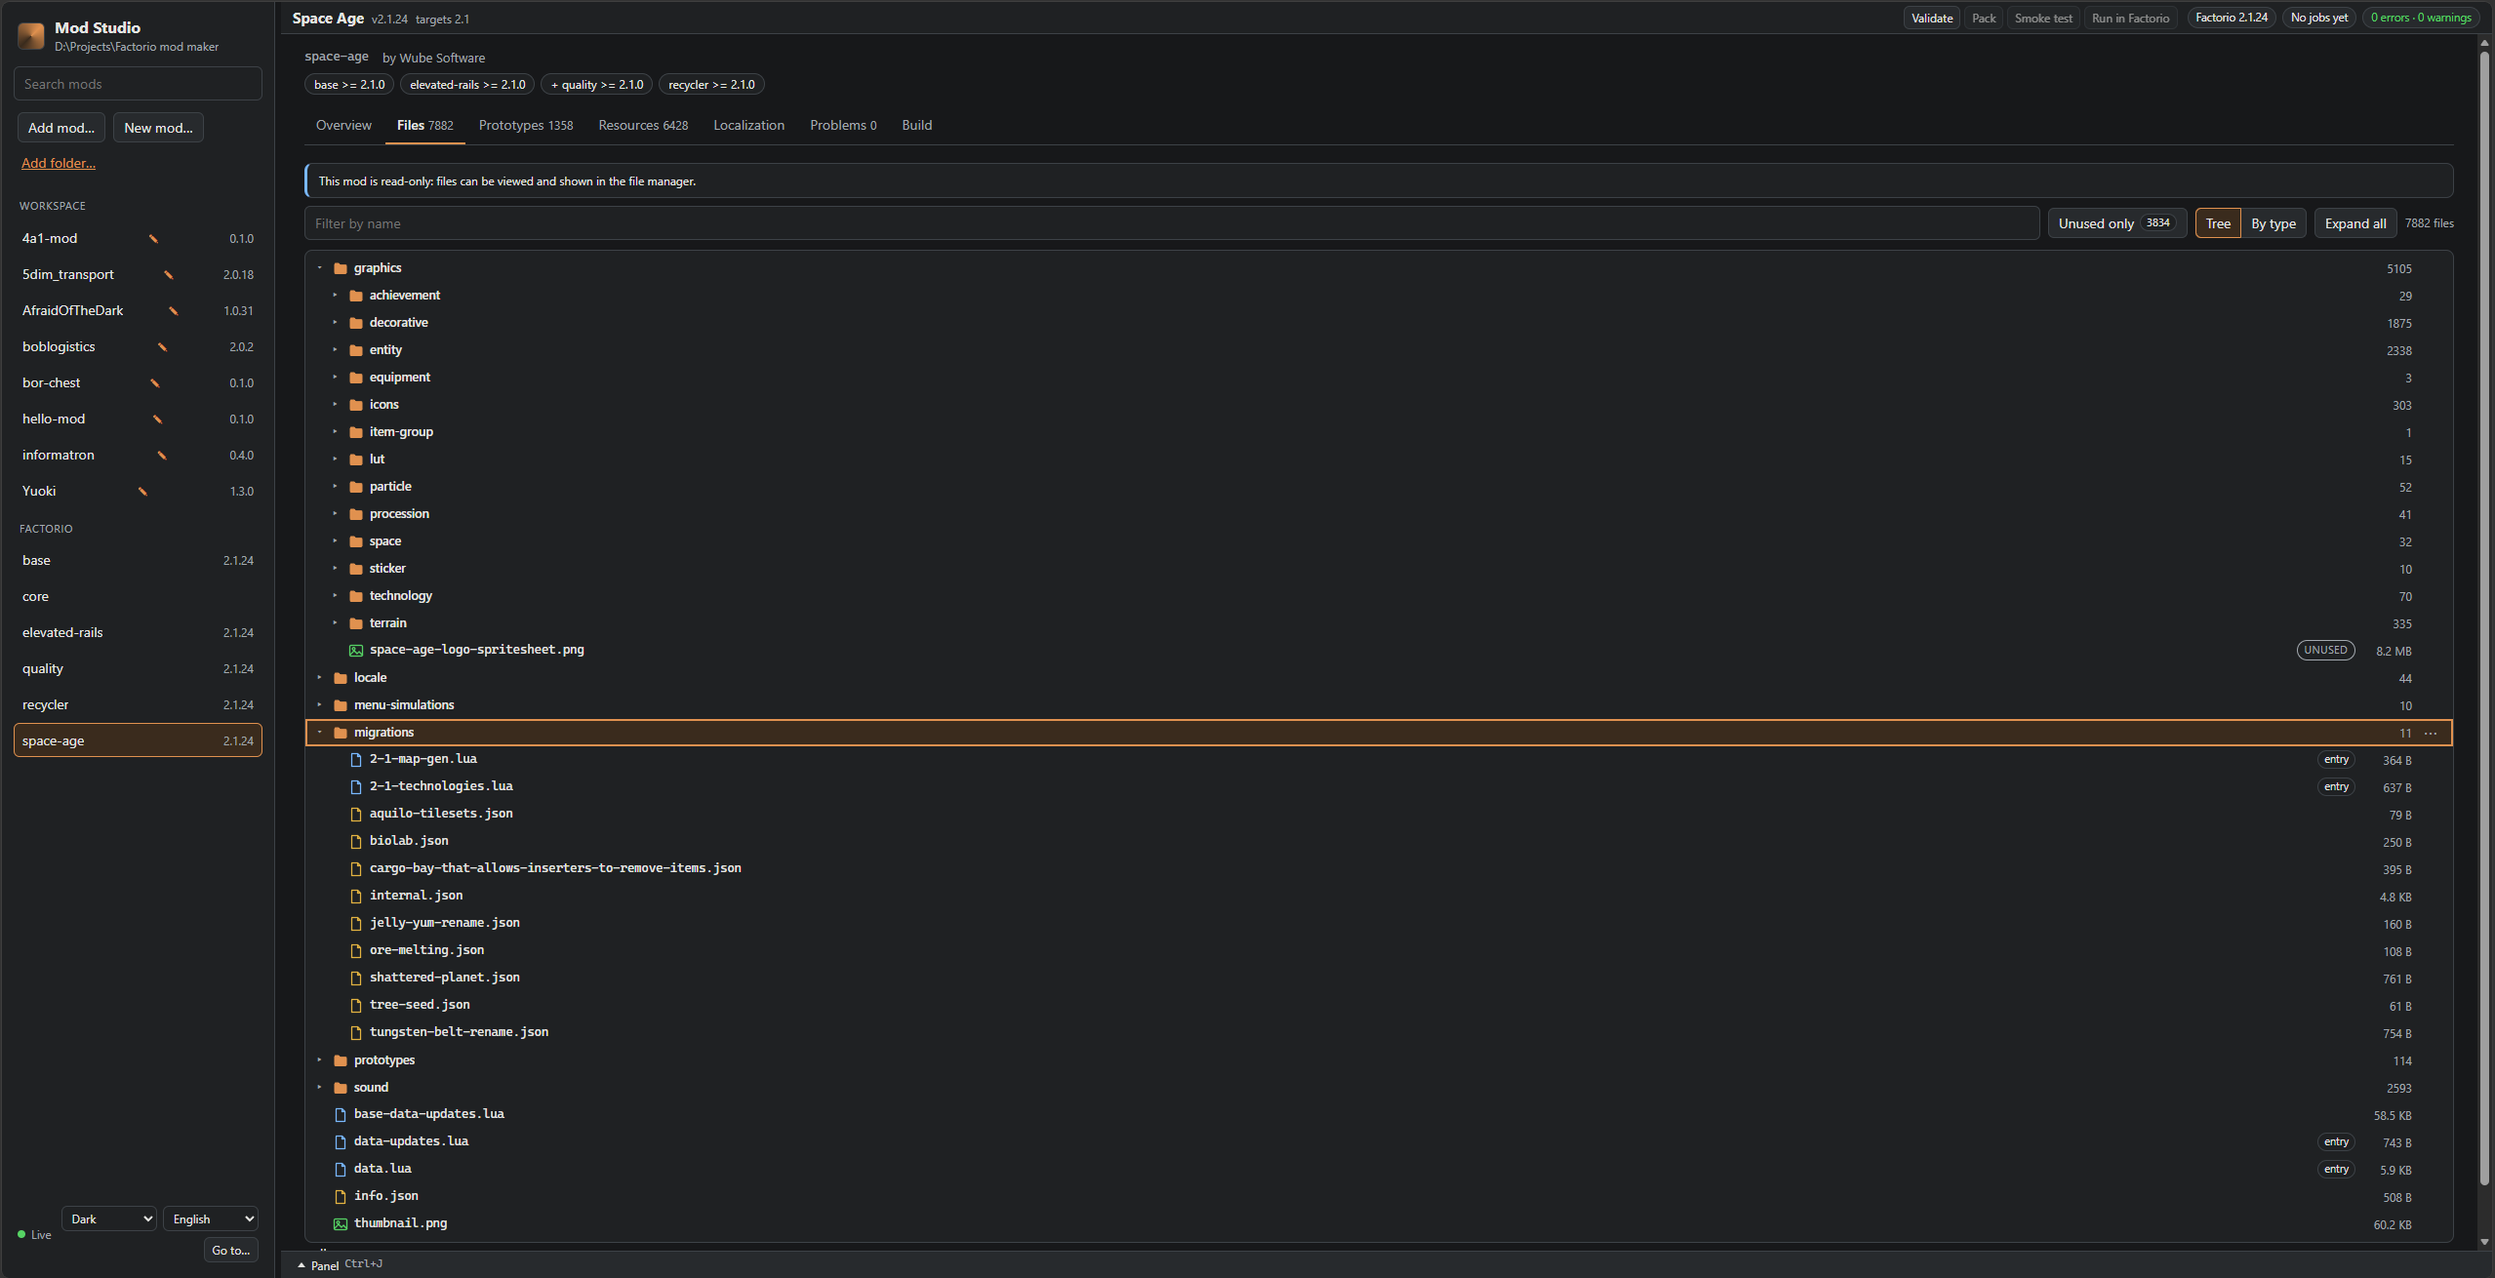
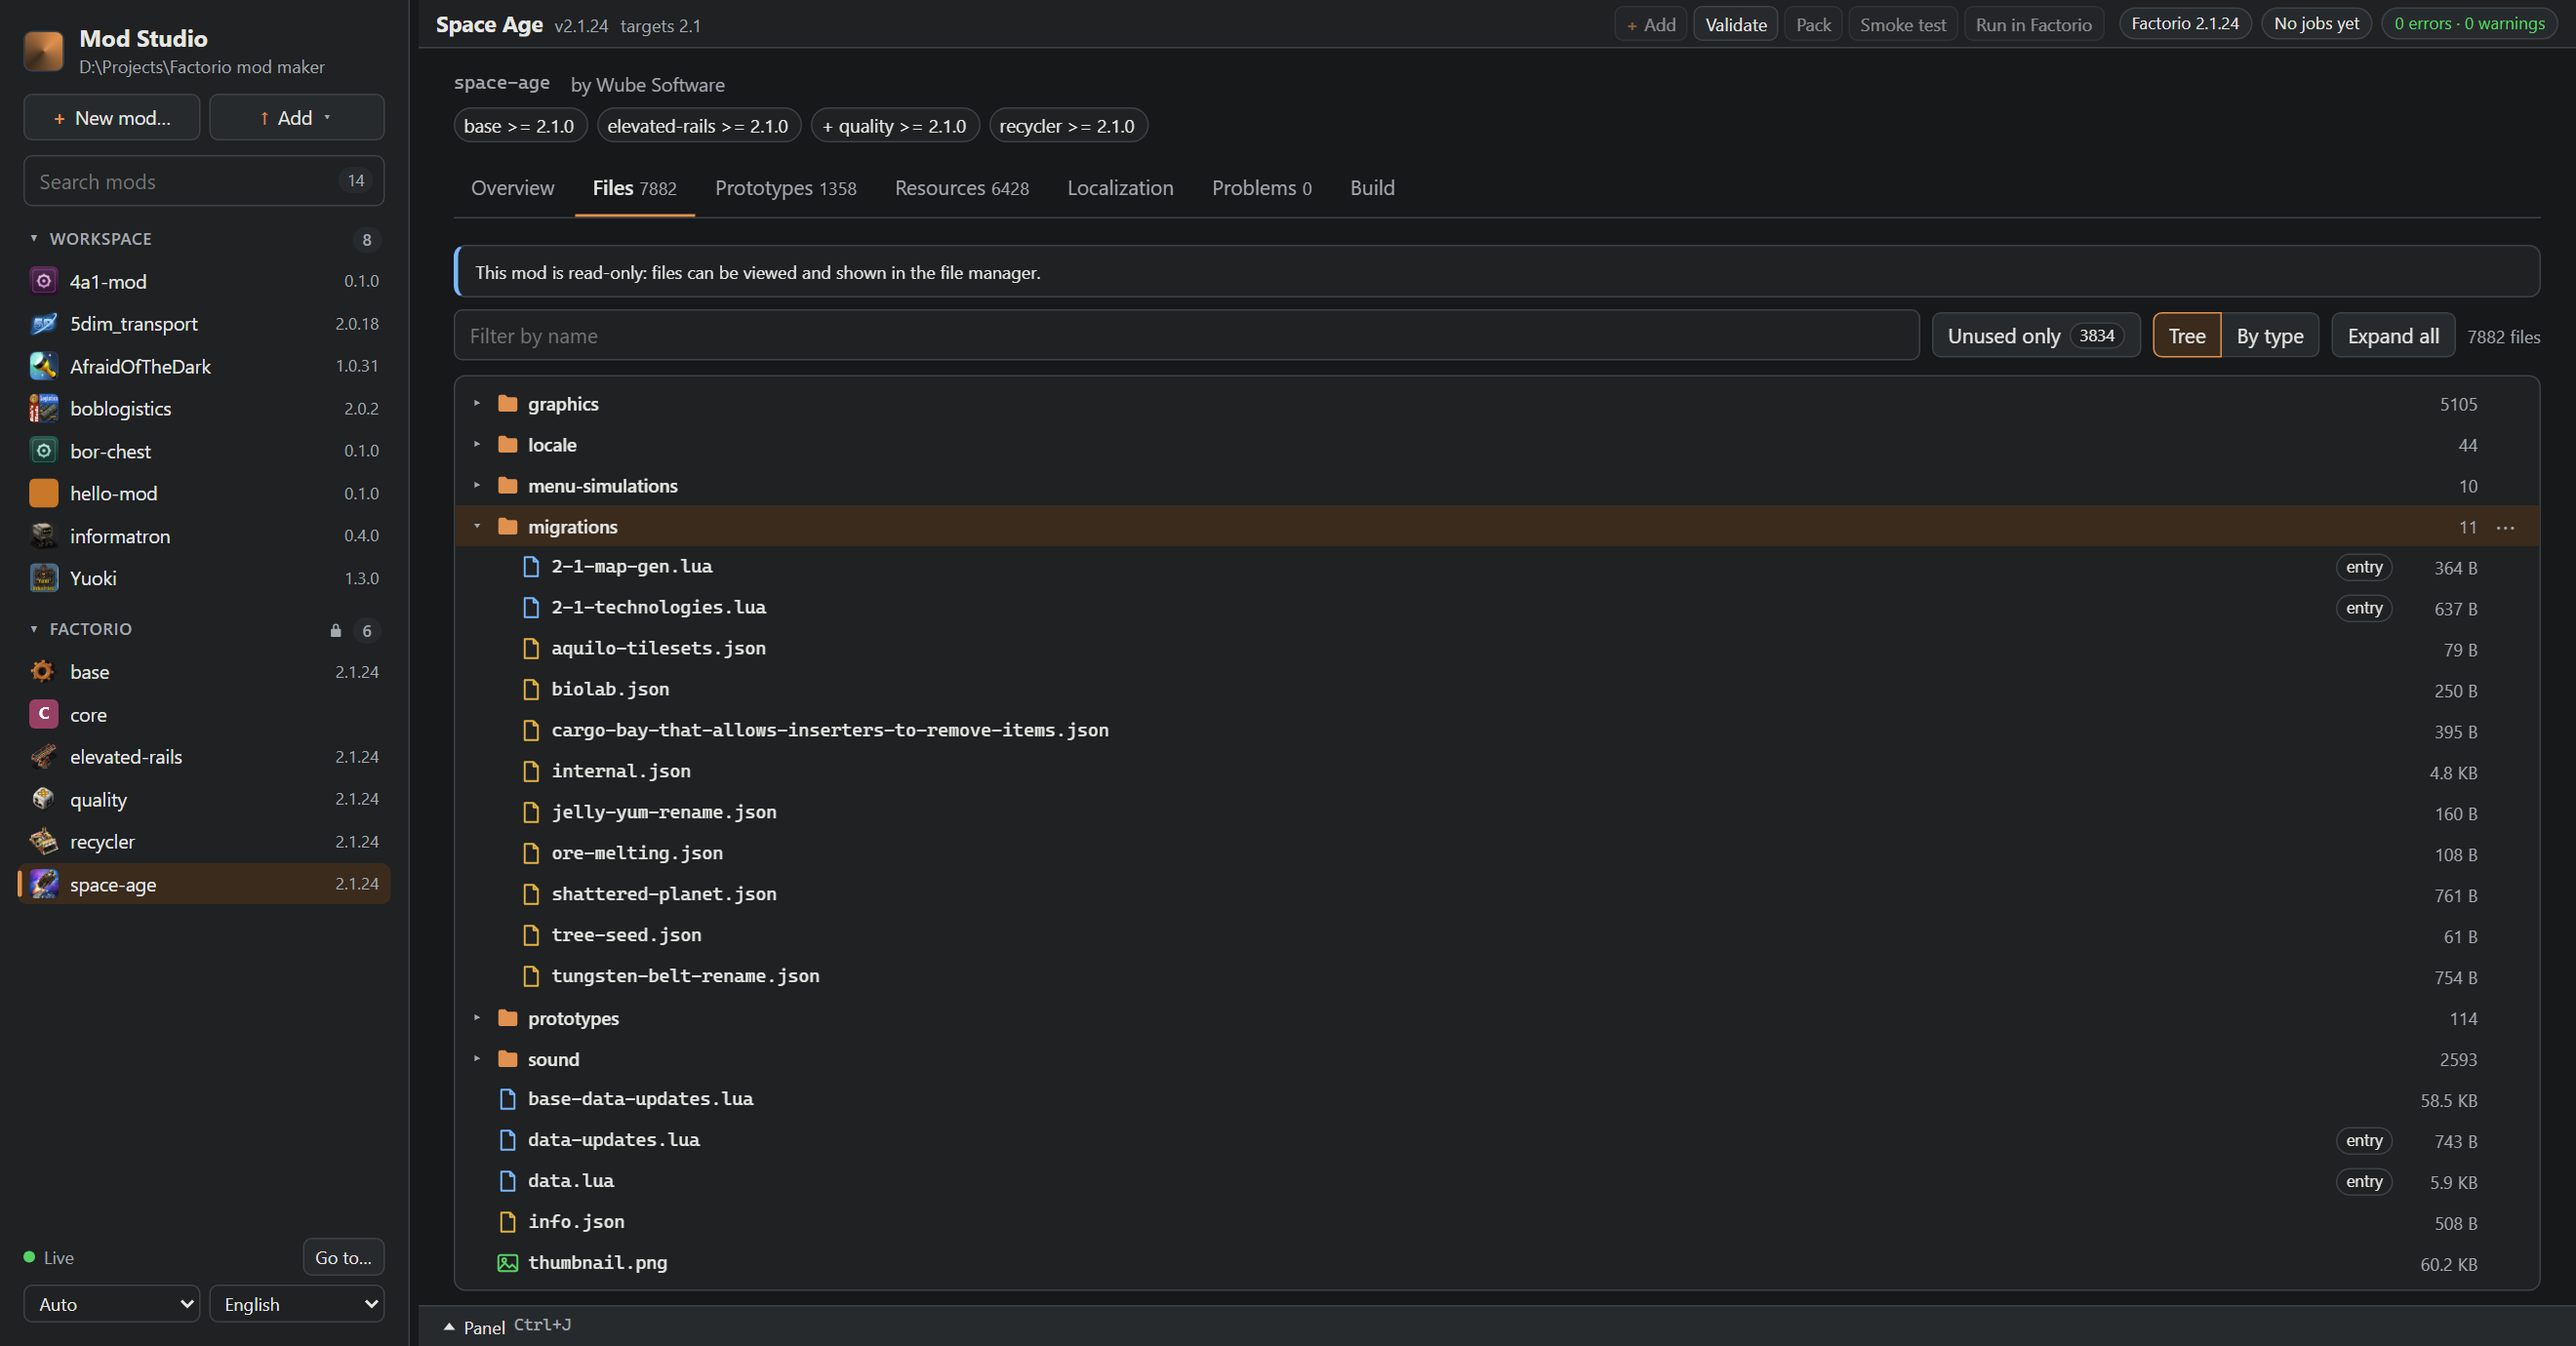
README: new screenshots of the 0.2 studio
- Overview, Files and Localization taken again: the new sidebar with mod
  icons and groups, the Add menu, the language chips
- new: Prototypes and Resources next to them, Build in its section

Taken in headless Edge at 1760x920, scale 1.5, dark theme.

diff --git a/README.md b/README.md
@@ -17,6 +17,10 @@ command line or in your browser. It runs entirely on your machine and works next
 | --- | --- |
 | ![The Files tab: the file tree with entry points and unused files](docs/images/files.png) | ![The Localization tab: progress per language and the side-by-side editor](docs/images/localization.png) |
 
+| Prototypes | Resources |
+| --- | --- |
+| ![The Prototypes tab: everything the mod defines, by type, with icons and where it is defined](docs/images/prototypes.png) | ![The Resources tab: graphics and sounds by folder, with previews and the prototypes that use them](docs/images/resources.png) |
+
 ## What it does
 
 - **Start a mod in seconds.** Templates (empty, item + recipe, entity, runtime script) for Factorio 2.0 and 2.1 (all but the entity one also for 1.1) that pass every check out of the box.
@@ -410,6 +414,8 @@ limits files to 2 MB, and goes through a temp file and rename so a half-written 
 UTF-8 BOM of an existing file are kept. The command needs the ASP.NET Core runtime, which is included with the .NET SDK.
 
 ### Build tab: validate, pack, smoke test and run
+
+![The Build tab: the Factorio to use, smoke-test settings, the output of a run and recent jobs](docs/images/build.png)
 
 The *Build* tab of a mod runs the same operations as the CLI and streams the output while they work:
 

diff --git a/README.ru.md b/README.ru.md
@@ -19,6 +19,10 @@
 | --- | --- |
 | ![The Files tab: the file tree with entry points and unused files](docs/images/files.png) | ![The Localization tab: progress per language and the side-by-side editor](docs/images/localization.png) |
 
+| Prototypes | Resources |
+| --- | --- |
+| ![The Prototypes tab: everything the mod defines, by type, with icons and where it is defined](docs/images/prototypes.png) | ![The Resources tab: graphics and sounds by folder, with previews and the prototypes that use them](docs/images/resources.png) |
+
 ## Что умеет
 
 - **Мод за секунды.** Шаблоны (пустой, предмет + рецепт, сущность, скрипт времени выполнения) для Factorio 2.0 и 2.1 (все, кроме сущности, — и для 1.1), которые сразу проходят все проверки.

diff --git a/README.uk.md b/README.uk.md
@@ -19,6 +19,10 @@
 | --- | --- |
 | ![The Files tab: the file tree with entry points and unused files](docs/images/files.png) | ![The Localization tab: progress per language and the side-by-side editor](docs/images/localization.png) |
 
+| Prototypes | Resources |
+| --- | --- |
+| ![The Prototypes tab: everything the mod defines, by type, with icons and where it is defined](docs/images/prototypes.png) | ![The Resources tab: graphics and sounds by folder, with previews and the prototypes that use them](docs/images/resources.png) |
+
 ## Що вміє
 
 - **Мод за секунди.** Шаблони (порожній, предмет + рецепт, сутність, скрипт часу виконання) для Factorio 2.0 і 2.1 (усі, крім сутності, — і для 1.1), які одразу проходять усі перевірки.

diff --git a/README.es.md b/README.es.md
@@ -19,6 +19,10 @@ comandos o en tu navegador. Todo funciona en tu equipo, junto a tu editor de có
 | --- | --- |
 | ![The Files tab: the file tree with entry points and unused files](docs/images/files.png) | ![The Localization tab: progress per language and the side-by-side editor](docs/images/localization.png) |
 
+| Prototypes | Resources |
+| --- | --- |
+| ![The Prototypes tab: everything the mod defines, by type, with icons and where it is defined](docs/images/prototypes.png) | ![The Resources tab: graphics and sounds by folder, with previews and the prototypes that use them](docs/images/resources.png) |
+
 ## Qué hace
 
 - **Un mod en segundos.** Plantillas (vacía, objeto + receta, entidad, script en tiempo de ejecución) para Factorio 2.0 y 2.1 (todas salvo la de entidad también para 1.1) que pasan todas las comprobaciones desde el principio.

diff --git a/README.fr.md b/README.fr.md
@@ -19,6 +19,10 @@ ou dans votre navigateur. Tout tourne sur votre machine, à côté de votre édi
 | --- | --- |
 | ![The Files tab: the file tree with entry points and unused files](docs/images/files.png) | ![The Localization tab: progress per language and the side-by-side editor](docs/images/localization.png) |
 
+| Prototypes | Resources |
+| --- | --- |
+| ![The Prototypes tab: everything the mod defines, by type, with icons and where it is defined](docs/images/prototypes.png) | ![The Resources tab: graphics and sounds by folder, with previews and the prototypes that use them](docs/images/resources.png) |
+
 ## Ce qu'il fait
 
 - **Un mod en quelques secondes.** Des modèles (vide, objet + recette, entité, script d'exécution) pour Factorio 2.0 et 2.1 (tous sauf l'entité aussi pour 1.1), qui passent toutes les vérifications d'emblée.

diff --git a/README.pl.md b/README.pl.md
@@ -19,6 +19,10 @@ Wszystko działa na Twoim komputerze, obok Twojego ulubionego edytora kodu.
 | --- | --- |
 | ![The Files tab: the file tree with entry points and unused files](docs/images/files.png) | ![The Localization tab: progress per language and the side-by-side editor](docs/images/localization.png) |
 
+| Prototypes | Resources |
+| --- | --- |
+| ![The Prototypes tab: everything the mod defines, by type, with icons and where it is defined](docs/images/prototypes.png) | ![The Resources tab: graphics and sounds by folder, with previews and the prototypes that use them](docs/images/resources.png) |
+
 ## Co potrafi
 
 - **Mod w kilka sekund.** Szablony (pusty, przedmiot + receptura, obiekt, skrypt czasu działania) dla Factorio 2.0 i 2.1 (wszystkie poza obiektem także dla 1.1), które od razu przechodzą każdą kontrolę.

diff --git a/README.de.md b/README.de.md
@@ -19,6 +19,10 @@ Programmfenster, auf der Kommandozeile oder im Browser. Alles läuft auf Ihrem R
 | --- | --- |
 | ![The Files tab: the file tree with entry points and unused files](docs/images/files.png) | ![The Localization tab: progress per language and the side-by-side editor](docs/images/localization.png) |
 
+| Prototypes | Resources |
+| --- | --- |
+| ![The Prototypes tab: everything the mod defines, by type, with icons and where it is defined](docs/images/prototypes.png) | ![The Resources tab: graphics and sounds by folder, with previews and the prototypes that use them](docs/images/resources.png) |
+
 ## Was es kann
 
 - **Eine Mod in Sekunden.** Vorlagen (leer, Gegenstand + Rezept, Entität, Laufzeit-Skript) für Factorio 2.0 und 2.1 (alle außer der Entität auch für 1.1), die sofort jede Prüfung bestehen.

diff --git a/README.zh-CN.md b/README.zh-CN.md
@@ -17,6 +17,10 @@
 | --- | --- |
 | ![The Files tab: the file tree with entry points and unused files](docs/images/files.png) | ![The Localization tab: progress per language and the side-by-side editor](docs/images/localization.png) |
 
+| Prototypes | Resources |
+| --- | --- |
+| ![The Prototypes tab: everything the mod defines, by type, with icons and where it is defined](docs/images/prototypes.png) | ![The Resources tab: graphics and sounds by folder, with previews and the prototypes that use them](docs/images/resources.png) |
+
 ## 功能
 
 - **几秒钟创建模组。** 适用于 Factorio 2.0 和 2.1 的模板（空模组、物品 + 配方、实体、运行时脚本；除实体外也支持 1.1），开箱即可通过所有检查。
